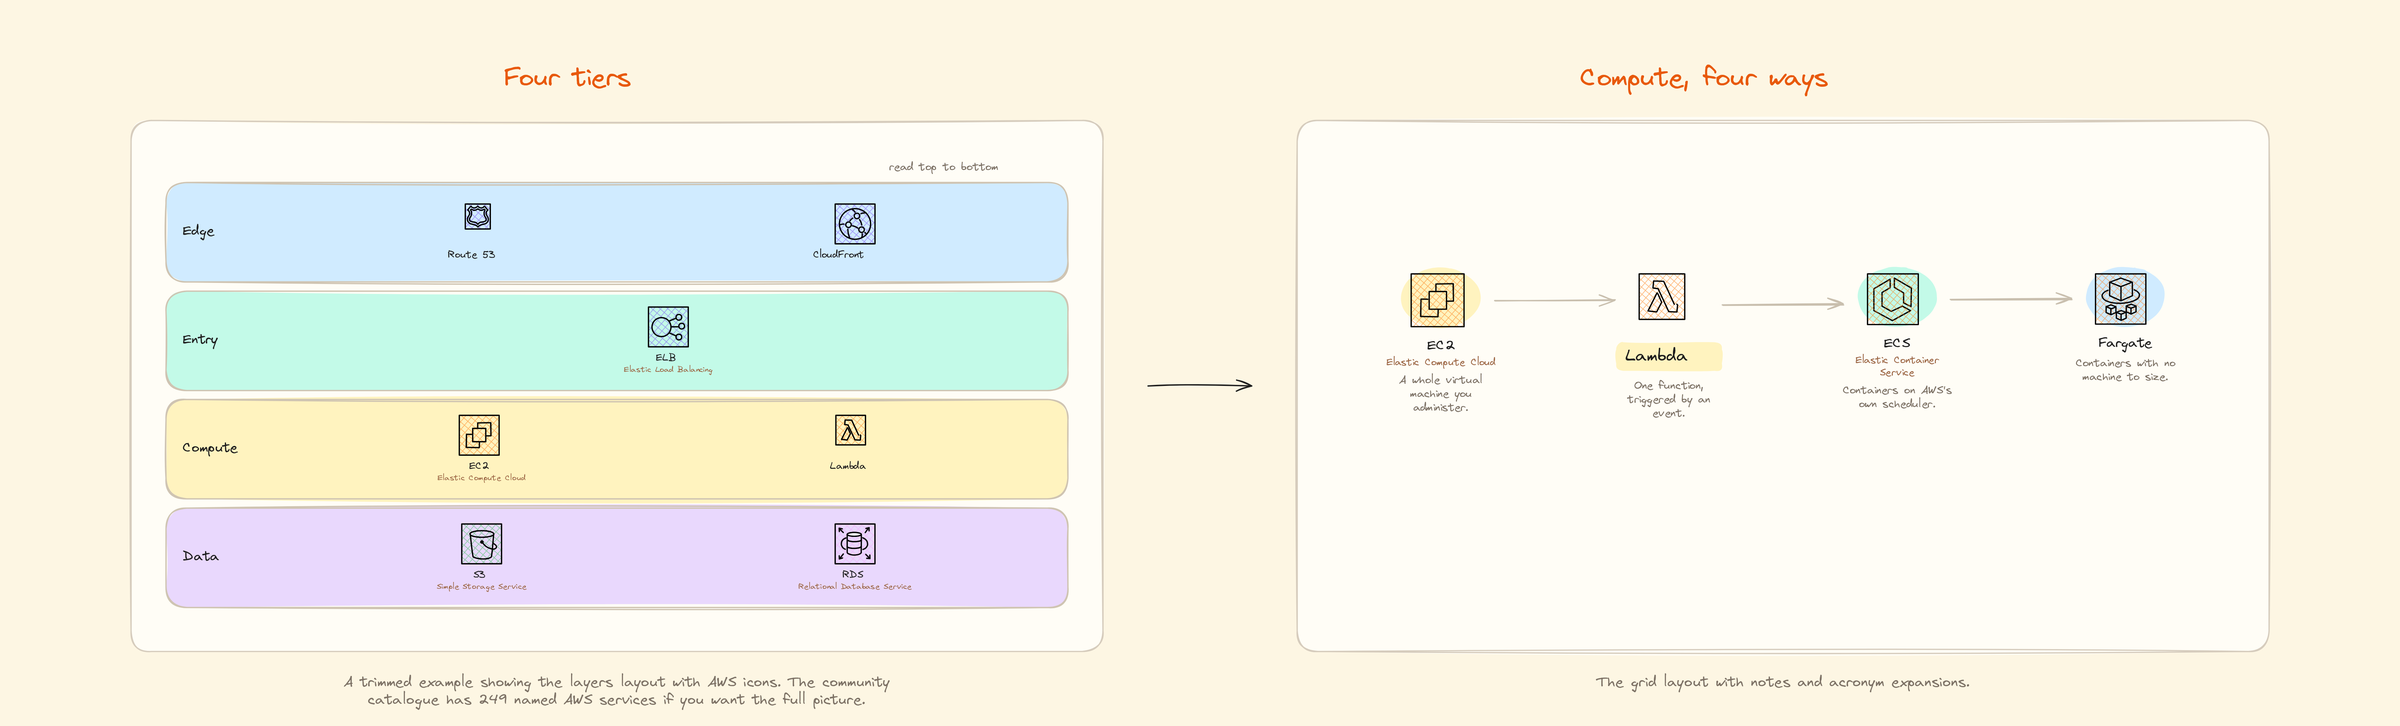
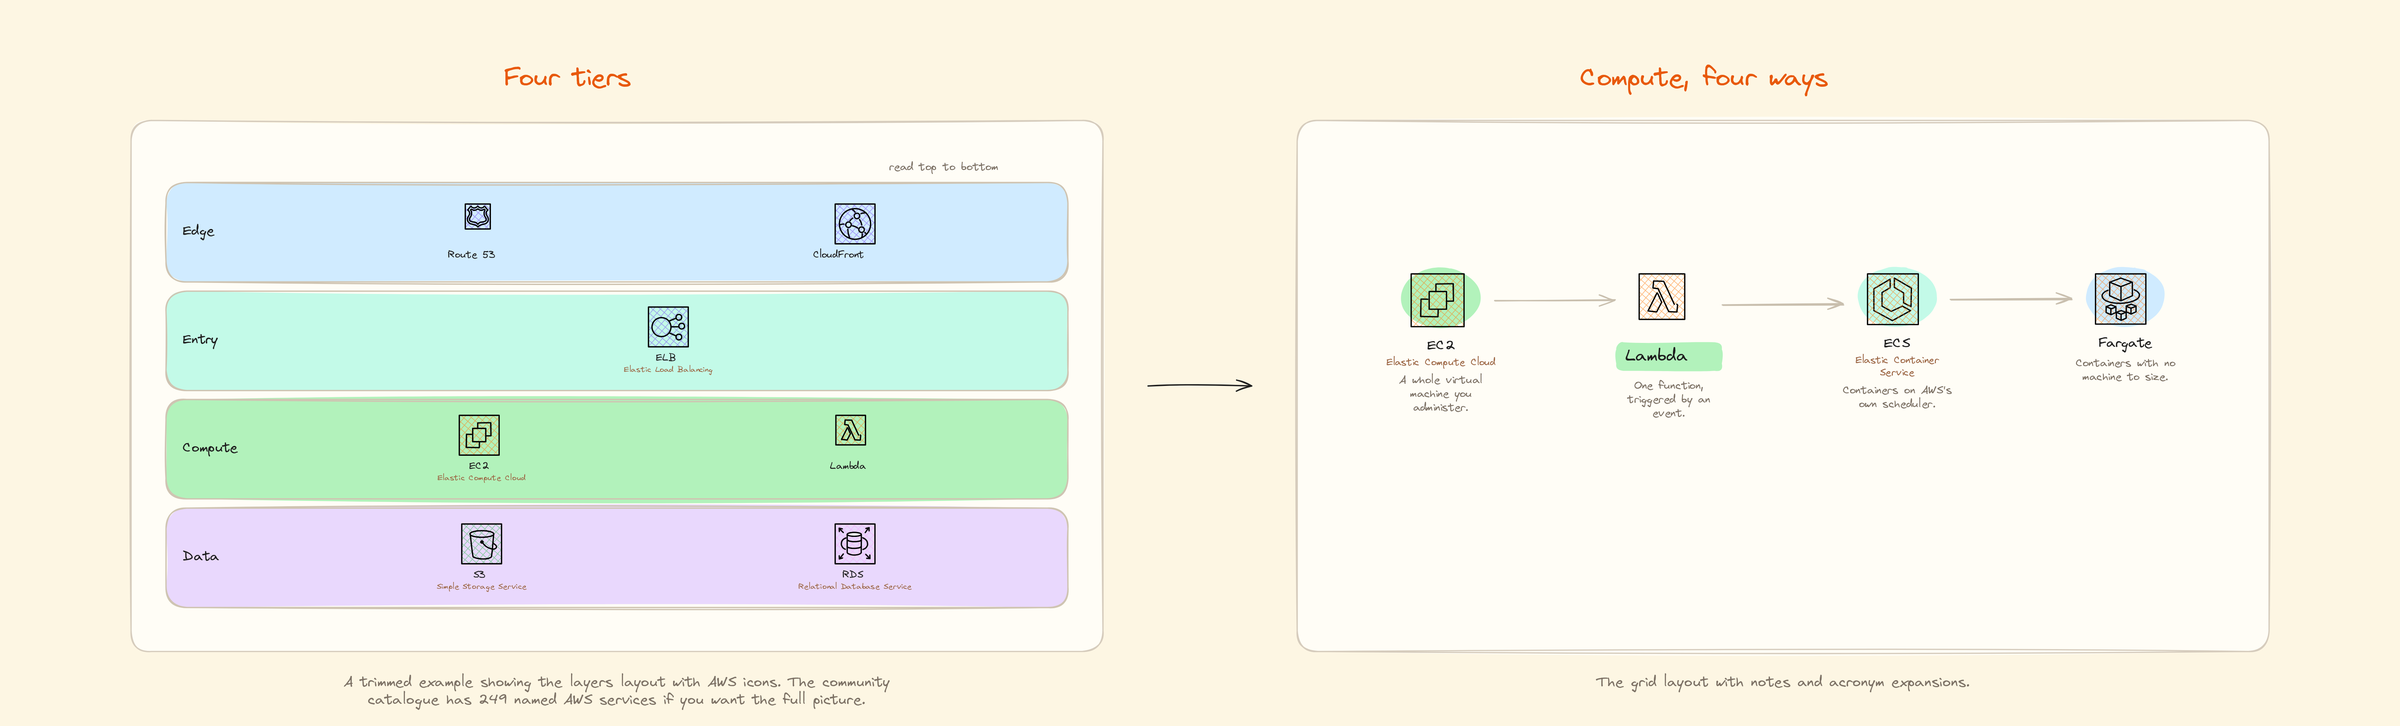
Replace the lemon wash with sage
Lemon scored 1.03 contrast against the cream ground — effectively invisible.
Sage sits at 1.19, in line with the other five washes.

Changed region(s): [[0.0625, 0.5455, 0.4688, 0.697], [0.5625, 0.3636, 0.625, 0.4545], [0.6562, 0.4545, 0.7188, 0.5152]]

diff --git a/scripts/scene.py b/scripts/scene.py
@@ -33,9 +33,11 @@ FULL_SIZE = 15
 FULL_SIZE_BAND = 12
 PANEL_BG = "#fffdf6"
 
+# Every wash is checked for contrast against the cream ground. "lemon"
+# (#fff3bf) used to be here and scored 1.03 — invisible on cream.
 PALETTE = {
     "mint": "#c3fae8", "lilac": "#e9d8fd", "sky": "#d0ebff",
-    "peach": "#ffd8a8", "rose": "#ffc9c9", "lemon": "#fff3bf",
+    "peach": "#ffd8a8", "rose": "#ffc9c9", "sage": "#b2f2bb",
     "none": "transparent",
 }
 

diff --git a/SKILL.md b/SKILL.md
@@ -82,7 +82,7 @@ Either a **shape** drawn from primitives, or an **icon** stamped from a library:
   thing in the panel the reader must not miss
 - `full` — what an acronym stands for, in rust beneath the label
 - `note` — a sentence of detail, muted and wrapped
-- `wash` — pastel blob behind the icon: `mint` `lilac` `sky` `peach` `rose` `lemon`
+- `wash` — pastel blob behind the icon: `mint` `lilac` `sky` `peach` `rose` `sage`
 
 Shapes: `doc` `padlock` `tag` `clipboard` `door` `cloud` `ring` `range`.
 
